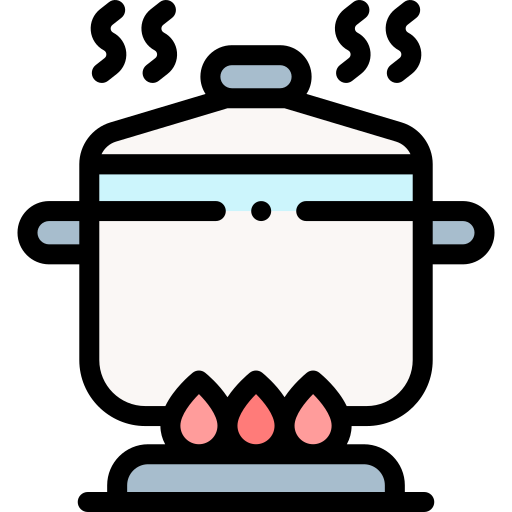
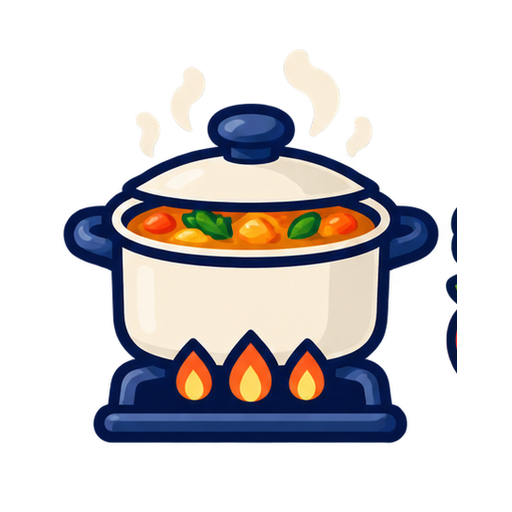
deploy: nuevos íconos de categorías e imágenes (826b0f6)

diff --git a/flutter_service_worker.js b/flutter_service_worker.js
@@ -3,9 +3,9 @@ const MANIFEST = 'flutter-app-manifest';
 const TEMP = 'flutter-temp-cache';
 const CACHE_NAME = 'flutter-app-cache';
 
-const RESOURCES = {"assets/AssetManifest.bin": "2dce5eabdc516f3c159611989b88238c",
-"assets/AssetManifest.bin.json": "33bfd98c45deec33b5009899b4e8c7d6",
-"assets/AssetManifest.json": "bb359cba0ca57772b43403d49efbbeff",
+const RESOURCES = {"assets/AssetManifest.bin": "3c3261a7fe9a15234dbee842d4c7bab4",
+"assets/AssetManifest.bin.json": "1b370ce394c797f0ebbdbb30a2189ab5",
+"assets/AssetManifest.json": "f95f2a5108dfdb469d8e0adc04d2aab6",
 "assets/assets/docs/politica_devoluciones.pdf": "e598ae45b79c5496d86a83d10264d7c4",
 "assets/assets/docs/politica_privacidad.pdf": "52e8778200c2cb7c2257ba85e74aef8d",
 "assets/assets/docs/preguntas_frecuentes.pdf": "08c5a1a1d7bf8ad294ed0a4dd4c33b33",
@@ -17,55 +17,77 @@ const RESOURCES = {"assets/AssetManifest.bin": "2dce5eabdc516f3c159611989b88238c
 "assets/assets/fonts/Poppins-Regular.ttf": "41ca7c5a3d735770bf47350b8d11d03a",
 "assets/assets/fonts/Roboto-Bold.ttf": "8c9110ec6a1737b15a5611dc810b0f92",
 "assets/assets/fonts/Roboto-Regular.ttf": "303c6d9e16168364d3bc5b7f766cfff4",
-"assets/assets/images/ANTOJITOS_icono.png": "9e371a3ed18ff002fd8f126b52e1ac12",
+"assets/assets/images/ANTOJITOS_icono.png": "6d50568127e4cb614a6623d2eae9e564",
+"assets/assets/images/ANTOJITOS_icono_1.png": "9e371a3ed18ff002fd8f126b52e1ac12",
 "assets/assets/images/backgroundmg.png": "38f66f7fef416a230f271b1255abb93a",
-"assets/assets/images/BEBIDAS_icono.png": "5c84abeedb62e54fcb67d4c699015eea",
+"assets/assets/images/BEBIDAS_icono.png": "319e6d82ba6a9d2dff82f1dd0b083939",
+"assets/assets/images/BEBIDAS_icono_1.png": "5c84abeedb62e54fcb67d4c699015eea",
+"assets/assets/images/bf55b8f6-b45f-53e0-ae16-5101c3a1b6b9.png": "f0f05c00723308464a519b35706ae257",
 "assets/assets/images/cat_todas.png": "b0991a77946e5078579c461d3fd93d25",
-"assets/assets/images/CERDO_icono.png": "bb9f2e9a67f7e81e8f0bb5202aaf5b6d",
-"assets/assets/images/CHILES_icono.png": "9ade241b19ef7ad619d026758acb8e68",
+"assets/assets/images/CERDO_icono.png": "a8245a44b298b31be921ce22da14fe8e",
+"assets/assets/images/CERDO_icono_1.png": "bb9f2e9a67f7e81e8f0bb5202aaf5b6d",
+"assets/assets/images/CHILES_icono.png": "b753f9ef097aff3fa619e3bab35a1338",
+"assets/assets/images/CHILES_icono_1.png": "9ade241b19ef7ad619d026758acb8e68",
 "assets/assets/images/Collage%2520gastron%25C3%25B3mico%2520fresco%2520Mercadito-Go.png": "436bef671656557baa85f87219b7c15a",
 "assets/assets/images/dao_icon.png": "423626162496cf42d152e9c2db27b922",
-"assets/assets/images/DEFAULT_icono.png": "4efac973d6bbe93806bd133fa4090844",
-"assets/assets/images/DE_LA_CASA_icono.png": "0c7c94573cfcebef11116db5a36d34a0",
-"assets/assets/images/EMBUTIDOS_icono.png": "3fb607c4b1fceb580246f7811802816e",
+"assets/assets/images/DEFAULT_icono.png": "5ff3d51ea15343983ba12c1acfe647e8",
+"assets/assets/images/DEFAULT_icono_1.png": "4efac973d6bbe93806bd133fa4090844",
+"assets/assets/images/DE_LA_CASA_icono.png": "9e0411b0514d3906563f34ceb20546f3",
+"assets/assets/images/DE_LA_CASA_icono_1.png": "0c7c94573cfcebef11116db5a36d34a0",
+"assets/assets/images/EMBUTIDOS_icono.png": "650fd57beef2ce33194f088a3c724452",
+"assets/assets/images/EMBUTIDOS_icono_1.png": "3fb607c4b1fceb580246f7811802816e",
 "assets/assets/images/empty_cart.png": "e3d52f5d01cbd85a381e487d1b6b1b05",
-"assets/assets/images/ESPECIAS_icono.png": "1d49a4cf7c5a1ce53d2d71a2a84ed6f5",
-"assets/assets/images/FLORES_icono.png": "4c5a825c9806688e57b0c3b0799e959a",
-"assets/assets/images/FRUTAS_icono.png": "954c94593c9e08f5bffcae3fd8a0cc6e",
+"assets/assets/images/ESPECIAS_icono.png": "d5db3855e323d61ad3d06652cefd7078",
+"assets/assets/images/ESPECIAS_icono_1.png": "1d49a4cf7c5a1ce53d2d71a2a84ed6f5",
+"assets/assets/images/FLORES_icono.png": "0192be5bb571d73b99b9238fbc80f85c",
+"assets/assets/images/FLORES_icono_1.png": "4c5a825c9806688e57b0c3b0799e959a",
+"assets/assets/images/FRUTAS_icono.png": "d28d98e63740719ef02b2306971aed93",
+"assets/assets/images/FRUTAS_icono_1.png": "954c94593c9e08f5bffcae3fd8a0cc6e",
 "assets/assets/images/hero_1.png": "e3271f82580251c507e5ace25b1bd8fc",
 "assets/assets/images/hero_1_1.png": "bc571e06ddffa5b985cc03df0244d250",
 "assets/assets/images/hero_1_2.png": "b4cd3cdedcb74d71e658f9ee86c3d8da",
 "assets/assets/images/hero_1_3.png": "70cf3bd3e247846c20ca8acebd54cdbf",
 "assets/assets/images/hero_2.png": "14dccf0480625ce889cc091640d5560d",
 "assets/assets/images/hero_3.png": "d9492cf55158d62ae30854188c772c23",
-"assets/assets/images/infografia_directoalaolla.png": "0313424b3df2b9e0ee3713ba04dbf1a6",
-"assets/assets/images/LACTEOS_icono.png": "7297e3bd64626f3c222c9f3c5e55dc8d",
+"assets/assets/images/infografia_directoalaolla.png": "6c0a0bae77b939b6acec1537e5684b04",
+"assets/assets/images/infografia_directoalaolla_1.png": "0313424b3df2b9e0ee3713ba04dbf1a6",
+"assets/assets/images/LACTEOS_icono.png": "8f3c126deaa7ef21e8c69b8425118ba7",
+"assets/assets/images/LACTEOS_icono_1.png": "7297e3bd64626f3c222c9f3c5e55dc8d",
 "assets/assets/images/logo.png": "0c37f6247e503977af896a03b3d38b7b",
-"assets/assets/images/MARISCOS_icono.png": "037c3d1043d037fd0face1e316cee0e8",
+"assets/assets/images/MARISCOS_icono.png": "e2b5e7e8c92c9f1d09f62223f0f192f2",
+"assets/assets/images/MARISCOS_icono_1.png": "037c3d1043d037fd0face1e316cee0e8",
 "assets/assets/images/Mercadito%2520Packs%2520de%2520Frescura%2520Local-2.png": "c5c6ee5fc8465c6950a32669af3138d9",
 "assets/assets/images/Mercadito%2520Packs_%2520Frescura%2520al%2520Instante-1.png": "ad4dea9de8f3c1b67c06af3e582e220f",
 "assets/assets/images/Mercadito%2520Packs_%2520Frescura%2520de%2520Mercado-4.png": "4a95162d87d71f4cd1bcb402d22f0571",
 "assets/assets/images/mercaditopacksimagen.png": "0dd47642d45b2ec815f3d1993e54eb09",
 "assets/assets/images/mercaditopacksimagen_1.png": "88d663172e0f7dedb14a0d4ae450ae53",
 "assets/assets/images/Mercadito_Packs_Imagen.png": "78ee204a35ce8fcef98ff8812e00cd9b",
-"assets/assets/images/MISCELANEO_icono.png": "510f63228c5c8aab7de4b48e42226b03",
-"assets/assets/images/olla_en_fuego.png": "4efac973d6bbe93806bd133fa4090844",
+"assets/assets/images/MISCELANEO_icono.png": "ed58e6246d9f52c75b03b846f127acbb",
+"assets/assets/images/MISCELANEO_icono_1.png": "510f63228c5c8aab7de4b48e42226b03",
+"assets/assets/images/olla_en_fuego.png": "5ff3d51ea15343983ba12c1acfe647e8",
+"assets/assets/images/olla_en_fuego_1.png": "4efac973d6bbe93806bd133fa4090844",
 "assets/assets/images/onboarding1.png": "e612cfa25aa37cd8f04265df09a60f6e",
 "assets/assets/images/onboarding2.png": "db7bae289cd0d4b4327ac2f832027b8e",
 "assets/assets/images/onboarding3.png": "bce407aa7aef1134f87f971fd36f28fb",
-"assets/assets/images/ORGANICO_SALUDABLE_icono.png": "057133e038267300c510654c81970410",
+"assets/assets/images/ORGANICO_SALUDABLE_icono.png": "ba81bfab666f445261c2d19d4108d6aa",
+"assets/assets/images/ORGANICO_SALUDABLE_icono_1.png": "057133e038267300c510654c81970410",
 "assets/assets/images/paquetes_header.png": "f04e2ce8acfa27b348387920f1318002",
 "assets/assets/images/paquetes_header_1.png": "af214c729c4e1a0272825d6de6d9a04b",
-"assets/assets/images/PEDIDOS_ESPECIALES_icono.png": "94f1540e4d7efc82a92f489982dfbc70",
+"assets/assets/images/PEDIDOS_ESPECIALES_icono.png": "42837a37e8b10ac6a973bc23ba4bb07b",
+"assets/assets/images/PEDIDOS_ESPECIALES_icono_1.png": "94f1540e4d7efc82a92f489982dfbc70",
 "assets/assets/images/placeholder.png": "147cb277234703375721c322e3867d12",
-"assets/assets/images/POLLO_icono.png": "428f4da3ac8812e4659e9dbfce08e520",
+"assets/assets/images/POLLO_icono.png": "42b98b8a45ddc97ca4d50ab1f5a15196",
+"assets/assets/images/POLLO_icono_1.png": "428f4da3ac8812e4659e9dbfce08e520",
 "assets/assets/images/product_placeholder.png": "e593005709351bf9899a0326c0ab1817",
-"assets/assets/images/QUESOS_icono.png": "a2bb67dde05c1a97910f3ee5d1bce8ce",
+"assets/assets/images/QUESOS_icono.png": "94fb2de92b45677d9ccdb0185f35c3c1",
+"assets/assets/images/QUESOS_icono_1.png": "a2bb67dde05c1a97910f3ee5d1bce8ce",
 "assets/assets/images/recetasimagen.png": "4751a38cff63f09505648395146f8759",
 "assets/assets/images/recetasimagen_1.png": "48be20d15294e7bbdd4715485b6c3886",
 "assets/assets/images/Recetas_Banner.png": "c3fd49d1bb1958e88d156a2aeb51328a",
-"assets/assets/images/RES_icono.png": "7a97fbdc902937b4b3fb345b30c326d5",
-"assets/assets/images/VERDURAS_icono.png": "df6a7f6bd487a6638db3655c0f9d53a6",
+"assets/assets/images/RES_icono.png": "e84dddb6fcaa73fe9f473dc4ee39cfb4",
+"assets/assets/images/RES_icono_1.png": "7a97fbdc902937b4b3fb345b30c326d5",
+"assets/assets/images/VERDURAS_icono.png": "403b94d6b7ad6f50ae776a3c6af51f02",
+"assets/assets/images/VERDURAS_icono_1.png": "df6a7f6bd487a6638db3655c0f9d53a6",
 "assets/FontManifest.json": "00ca8921ad3fd1050db0c4dceb0c39e4",
 "assets/fonts/MaterialIcons-Regular.otf": "2de0b11b7dd426cb76536d110a9a9a17",
 "assets/NOTICES": "b77940ca8e6a179f9209b92d3a5bd2d5",
@@ -94,15 +116,15 @@ const RESOURCES = {"assets/AssetManifest.bin": "2dce5eabdc516f3c159611989b88238c
 "favicon.png": "39d276a12cbc8222d7ff1d1ad3eafe39",
 "favicon2.png": "5dcef449791fa27946b3d35ad8803796",
 "flutter.js": "83d881c1dbb6d6bcd6b42e274605b69c",
-"flutter_bootstrap.js": "8478e7365cb38868eee493e64a020170",
+"flutter_bootstrap.js": "c3954e17fde28556b4cc86f78a7dc7fb",
 "icons/Icon-192.png": "007e3303ef7f05132c099e8ea74ddc06",
 "icons/Icon-512.png": "4b2fcf0ed3cda89cf0260aa2e96cb135",
 "icons/Icon-maskable-192.png": "007e3303ef7f05132c099e8ea74ddc06",
 "icons/Icon-maskable-512.png": "4b2fcf0ed3cda89cf0260aa2e96cb135",
-"index.html": "a5e6a67581b79a6f5d25c2dad889ae32",
-"/": "a5e6a67581b79a6f5d25c2dad889ae32",
+"index.html": "339abcec752f328248881ab5d595fe6f",
+"/": "339abcec752f328248881ab5d595fe6f",
 "main.dart.js": "7a8615e5faf11f2c1913c3039d793984",
-"manifest.json": "2c1cac1f87d0e91973f519386850be4e",
+"manifest.json": "af224245d8776a70baa0427f8940ecc3",
 "version.json": "36b33a617f806212948eea04b80a9cd1"};
 // The application shell files that are downloaded before a service worker can
 // start.

diff --git a/index.html b/index.html
@@ -159,7 +159,7 @@
       // Download main.dart.js
       _flutter.loader.loadEntrypoint({
         serviceWorker: {
-          serviceWorkerVersion: "2641349810",
+          serviceWorkerVersion: "1077742249",
         },
         onEntrypointLoaded: function(engineInitializer) {
           engineInitializer.initializeEngine().then(function(appRunner) {

diff --git a/flutter_bootstrap.js b/flutter_bootstrap.js
@@ -39,6 +39,6 @@ _flutter.buildConfig = {"engineRevision":"72f2b18bb094f92f62a3113a8075240ebb59af
 
 _flutter.loader.load({
   serviceWorkerSettings: {
-    serviceWorkerVersion: "2641349810"
+    serviceWorkerVersion: "1077742249"
   }
 });
